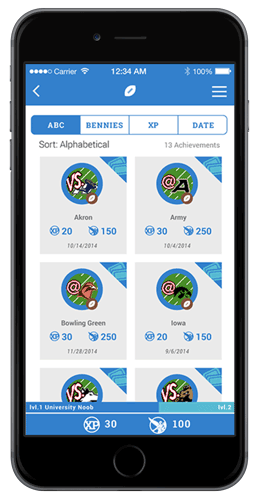
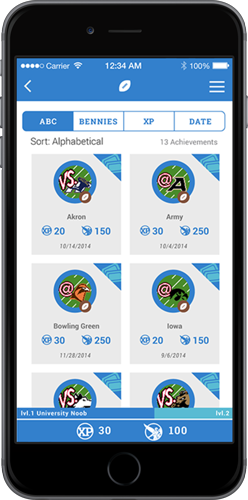
Adding slideshow to project overlay.

diff --git a/components/project-overlay.html b/components/project-overlay.html
@@ -1,5 +1,6 @@
 <link rel="import" href="../bower_components/polymer/polymer.html">
 <link rel="import" href="../bower_components/core-overlay/core-overlay.html">
+<link rel="import" href="../bower_components/polymer-slideshow/polymer-slideshow.html">
 
 <polymer-element name="project-overlay" attributes="opened project">
     <template>
@@ -37,11 +38,13 @@
 
         <div layout horizontal>
 
-            <div class="project-image" auto="true">
-                <template repeat="{{image in project.images}}">
-                    <img src="{{image}}"/>
-                </template>
-            </div>
+            <template if="{{project.images.length > 0}}">
+                <polymer-slideshow width="248" height="500">
+                    <template repeat="{{image in project.images}}">
+                        <img src="{{image}}"/>
+                    </template>
+                </polymer-slideshow>
+            </template>
             <div class="project-description" flex>
                 <p>{{project.description}}</p>
 
